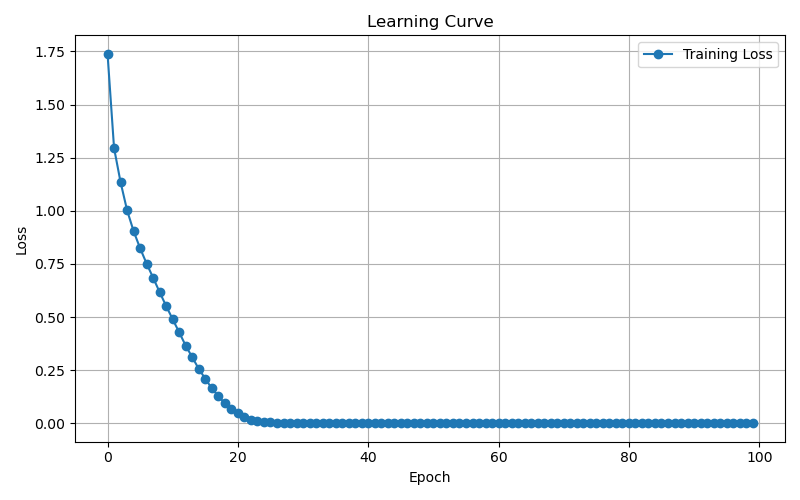
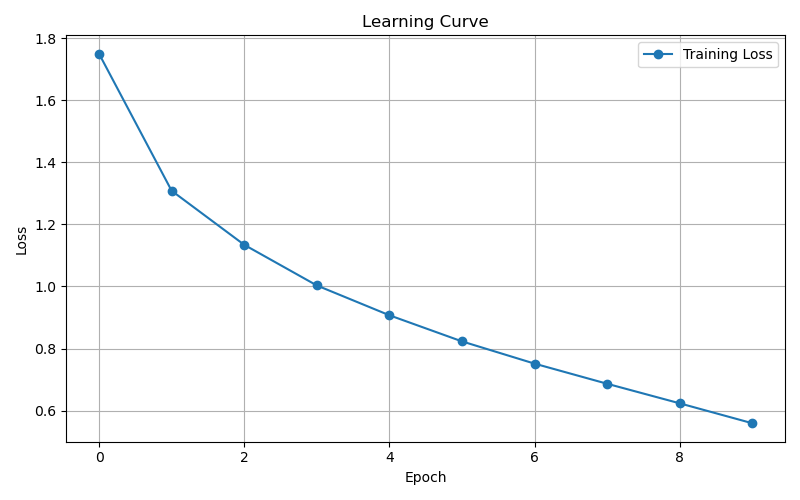
Add some parameters to script

diff --git a/cnn_image_recognition/main.py b/cnn_image_recognition/main.py
@@ -16,7 +16,7 @@ from torchviz import make_dot
 # Local imports
 from conv_net import ConvNet
 
-model_path = './checkpoints/persistedmodel.pth'
+default_model_path = './checkpoints/persistedmodel.pth'
 learning_curve_path = './plots/learning_curve.png'
 overfit_curve_path = './plots/overfit_curve.png'
 model_graph_path = './plots/model_graph'
@@ -58,8 +58,7 @@ def plot_curves(func):
 
 
 @plot_curves
-def train_loop(model, criterion):
-	num_epochs = 100
+def train_loop(model, criterion, num_epochs):
 	optimizer = optim.SGD(model.parameters(), lr=0.01, momentum=0.7)
 		
 	train_losses = []
@@ -134,7 +133,13 @@ def test_loop(model, criterion):
 
 if __name__ == "__main__":
 	parser = argparse.ArgumentParser(description="Train and test CNN")
+	
+	# Required parameters first
+	parser.add_argument("--epochs", type=int, help="Numer of epochs", required=True)
+	
+	# Optional parameters
 	parser.add_argument("--model-path", type=str, help="Path to .pth file with model state_dict")
+	args = parser.parse_args()
 
 	# Retrieve the data set 
 	tensor_transform = transforms.ToTensor()
@@ -159,13 +164,18 @@ if __name__ == "__main__":
 	# Start the training loop
 	model = ConvNet().to(device)
 	criterion = nn.CrossEntropyLoss()
-		
-	if os.path.exists(model_path):
-		model.load_state_dict(torch.load(model_path))
+	
+	# If model passed as parameter, retrieve it from store	
+	if args.model_path:
+		print(f"Loading model from {args.model_path}...")
+		model.load_state_dict(torch.load(args.model_path))
+		print(f"Loaded model: {args.model_path}...")
 	else:
-		model = train_loop(model, criterion)
-		torch.save(model.state_dict(), model_path)
-		
+		print(f"Training model from scratch...")
+		model = train_loop(model, criterion, args.epochs)
+		print(f"Saving model into {default_model_path}...")
+		torch.save(model.state_dict(), default_model_path)
+
 	# Test loop
 	test_loop(model, criterion)
 
@@ -183,6 +193,6 @@ if __name__ == "__main__":
 	y = model(x)
 
 	# Create diagram
-	make_dot(y, params=dict(model.named_parameters())).render(model_graph_path, format="png")
+	make_dot(y, params=dict(model.named_parameters())).render(model_graph_path, format="png", cleanup=True)
 
 

diff --git a/cnn_image_recognition/README.md b/cnn_image_recognition/README.md
@@ -1,15 +1,31 @@
-# sebas95.github.io
-ML projects
+
+# EffConvNet
+
+## About
+High efficiency convolutional neural network model for image recognition in CIFAR-10
+
+
+## Usage
+To train the model from scratch don't specify a file location
+
+'''
+python main.py --epochs 10
+'''
+
+To load model from existing file. Usage example:
+'''
+python main.py --model-path './checkpoints/persistedmodel.pth'
+'''
 
 
 # How to create the environment
 conda env create -f environment.yml
 
-# Enter the environment
+#### Enter the environment
 conda activate mlprojects
 
-# Exit the environment
+#### Exit the environment
 conda deactivate
 
-# Delete the environment
+#### Delete the environment
 conda remove --name mlprojects --all
